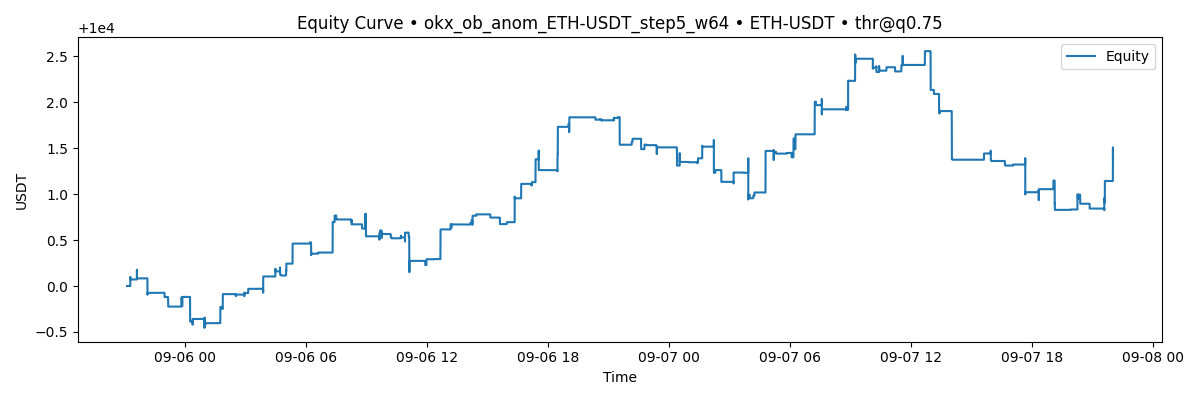
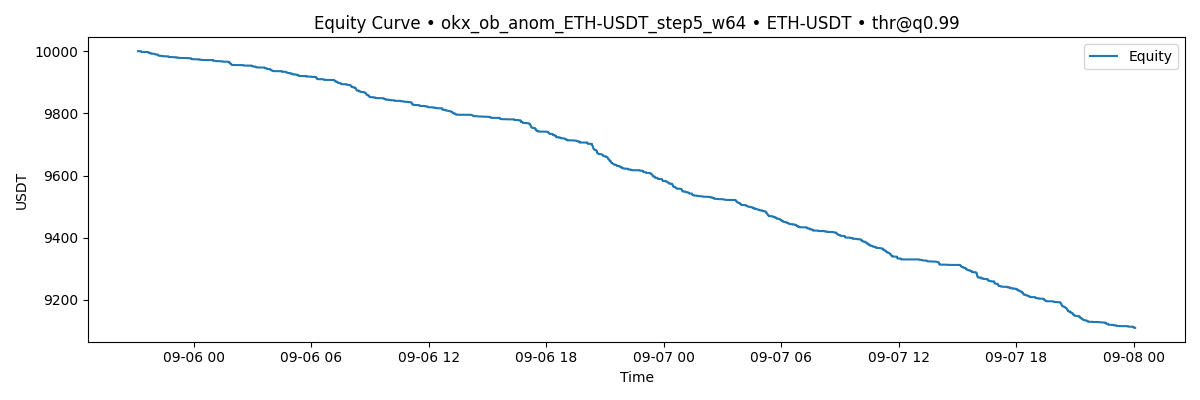
Bugs in sig calc

diff --git a/ob_anomaly_backtest.py b/ob_anomaly_backtest.py
@@ -166,6 +166,27 @@ def main():
                     help="Extra buffer to clear microstructure noise")
     ap.add_argument("--max-trades-per-hour", type=int, default=None,
                 help="Keep only the top-|edge| anomalies per hour after all gates")
+    
+    # --- anomaly threshold as rolling quantile ---
+    ap.add_argument("--roll-quantile", type=float, default=None,
+                    help="If set (e.g. 0.90), use rolling quantile of reconstruction error as the anomaly threshold.")
+    # ap.add_argument("--roll-window", default="2H",
+    #                 help="Pandas offset window for rolling threshold (e.g. '2H', '30min'). Used only with --roll-quantile.")
+
+    # --- dynamic min-edge (cost-aware) ---
+    ap.add_argument("--auto-min-edge", action="store_true",
+                    help="Use per-bar min edge = (2*fee + 2*slip + edge_buffer) + k_spread * spread_bps.")
+    ap.add_argument("--k-spread", type=float, default=0.5,
+                    help="Coefficient applied to current spread (in bps) when --auto-min-edge is set.")
+        
+    # --- add CLI flag near the other args ---
+    ap.add_argument("--edge-scale", type=float, default=1.0,
+                    help="Multiply predicted edge (bps) by this factor for calibration.")
+
+    # (Optional) suggest lowercase window in help; 'H' -> 'h'
+    ap.add_argument("--roll-window", default="2h",
+                    help="Rolling window (e.g. '2h', '30min') for rolling quantile.")
+
 
 
     args = ap.parse_args()
@@ -207,7 +228,19 @@ def main():
         thr = mu + args.z_thr * sig
 
     print(f"[anomaly] thr = {thr:.6e}  (source={'train-quantile' if args.usequantile and saved else 'z-score'})")
-    anom = err > thr
+    err_s = pd.Series(err, index=pd.to_datetime(idx))
+
+    if args.roll_quantile is not None:
+        # Rolling time-window quantile
+        thr_s = (err_s.rolling(args.roll_window, min_periods=300)
+                        .quantile(args.roll_quantile))
+        thr_vec = thr_s.reindex(err_s.index).to_numpy()
+        print(f"[diag] rolling thr: q={args.roll_quantile} window={args.roll_window}")
+    else:
+        # Keep your current behavior (fixed threshold)
+        thr_vec = np.full_like(err_s.values, fill_value=thr, dtype=float)
+
+    anom = err_s.values > thr_vec
 
     # direction: sign(micro_tilt + alpha*imb) at the last frame
     mt = F["micro_tilt"].values[window:]
@@ -229,7 +262,7 @@ def main():
     spread_bps = (np.array(F["spread"].values[window:], dtype=float) / np.array(F["mid"].values[window:], dtype=float) * 1e4)
     ok_spread = spread_bps <= args.spread_cap_bps
 
-    sig = np.where(err > thr, dir_sig, 0)
+    sig = np.where(anom, dir_sig, 0)
 
     # require N consecutive anomalies
     if args.consec > 1:
@@ -289,35 +322,73 @@ def main():
         # convert to predicted edge in bps at the prior bar (causal)
         atr_prev = F["atr_mid"].loc[idx_r].shift(1).reindex(idx_r).values
         mid_prev = F["mid"].loc[idx_r].shift(1).reindex(idx_r).values
-        edge_bps = y_hat * atr_prev * 1e4
-        finite = np.isfinite(edge_bps)
+        edge_bps_raw = y_hat * atr_prev * 1e4
+        edge_bps     = args.edge_scale * edge_bps_raw
+
+        # 2) Print both raw and scaled stats so you can calibrate easily
+        finite = np.isfinite(edge_bps_raw)
         print(
-            f"[diag] edge_bps abs p50={np.nanmedian(np.abs(edge_bps)):.3f}, "
-            f"p90={np.nanquantile(np.abs(edge_bps[finite]), 0.90):.3f}, "
-            f"p99={np.nanquantile(np.abs(edge_bps[finite]), 0.99):.3f}"
+            f"[diag] edge_bps RAW abs p50={np.nanmedian(np.abs(edge_bps_raw)):.3f}, "
+            f"p90={np.nanquantile(np.abs(edge_bps_raw[finite]), 0.90):.3f}, "
+            f"p99={np.nanquantile(np.abs(edge_bps_raw[finite]), 0.99):.3f}"
+        )
+        finite2 = np.isfinite(edge_bps)
+        print(
+            f"[diag] edge_bps SCALED(x{args.edge_scale:g}) abs p50={np.nanmedian(np.abs(edge_bps)):.3f}, "
+            f"p90={np.nanquantile(np.abs(edge_bps[finite2]), 0.90):.3f}, "
+            f"p99={np.nanquantile(np.abs(edge_bps[finite2]), 0.99):.3f}"
         )
 
+        # 3) Build the series from the *scaled* edges (unchanged if you use the new 'edge_bps')
         edge_ser = (pd.Series(edge_bps, index=idx_r)
                     .reindex(idx)
-                    .where(lambda s: np.isfinite(s), 0.0)  # non-finite -> 0
+                    .where(lambda s: np.isfinite(s), 0.0)
                     .values)
 
         costs_bps = 2*args.fee_bps + 2*args.slip_bps + args.edge_buffer_bps
 
         # require direction consistency and edge > costs+buffer, but only where finite
         finite_gate = np.isfinite(edge_ser)
+        # === build a per-bar min edge in bps ===
+        # Base round-trip costs + your existing edge buffer:
+        base_costs_bps = 2*args.fee_bps + 2*args.slip_bps + args.edge_buffer_bps
+
+        # Make sure we have spread in F (raw, not bps); if not, compute quickly:
+        if "spread" not in F.columns:
+            F["spread"] = F["ask_px"] - F["bid_px"]
+
+        # spread (bps) aligned to idx:
+        spread_bps_vec = (F["spread"].reindex(idx).values /
+                        np.maximum(F["mid"].reindex(idx).values, 1e-12)) * 1e4
+
+        if args.auto_min_edge:
+            # dynamic: costs + k_spread * spread_bps
+            min_edge_vec = base_costs_bps + args.k_spread * spread_bps_vec
+            print(f"[diag] dynamic min_edge: base={base_costs_bps:.2f} + {args.k_spread}*spread_bps")
+        else:
+            # legacy: scalar min-edge on top of costs
+            min_edge_vec = base_costs_bps + args.min_edge_bps
+
+        if args.auto_min_edge:
+            me = pd.Series(min_edge_vec, index=idx)
+            print("[diag] dynamic min_edge bps: "
+                f"med={np.nanmedian(me):.2f}, p90={np.nanquantile(me,0.90):.2f}, "
+                f"p99={np.nanquantile(me,0.99):.2f}")
+            print(f"[diag] pass |edge|>=min_edge: {int(np.nansum(np.abs(edge_ser) >= min_edge_vec))}")
+        else:
+            print(f"[diag] static min_edge_bps: base={base_costs_bps:.2f}+{args.min_edge_bps:.2f}; "
+                f"pass: {int(np.nansum(np.abs(edge_ser) >= (base_costs_bps + args.min_edge_bps)))}")
+
+        # === finite-aware masks (keep your existing direction check) ===
+        finite_gate = np.isfinite(edge_ser)
         dir_ok = np.zeros_like(sig, dtype=bool)
         dir_ok[finite_gate] = np.sign(edge_ser[finite_gate]) == sig[finite_gate]
 
         mag_ok = np.zeros_like(sig, dtype=bool)
-        mag_ok[finite_gate] = np.abs(edge_ser[finite_gate]) >= (costs_bps + args.min_edge_bps)
+        # use per-bar threshold (vector); broadcast works since both are 1-D
+        mag_ok[finite_gate] = np.abs(edge_ser[finite_gate]) >= min_edge_vec[finite_gate]
 
-        sig = np.where((sig != 0) & dir_ok & mag_ok, sig, 0)
-
-        # require direction consistency and edge > costs+buffer
-        costs_bps = 2*args.fee_bps + 2*args.slip_bps + args.edge_buffer_bps
-        dir_ok  = np.sign(np.asarray(edge_ser)) == np.asarray(sig)
-        mag_ok  = np.abs(np.asarray(edge_ser)) >= (costs_bps + args.min_edge_bps)
+        # Final regressor gate:
         sig = np.where((sig != 0) & dir_ok & mag_ok, sig, 0)
 
     if args.max_trades_per_hour:
